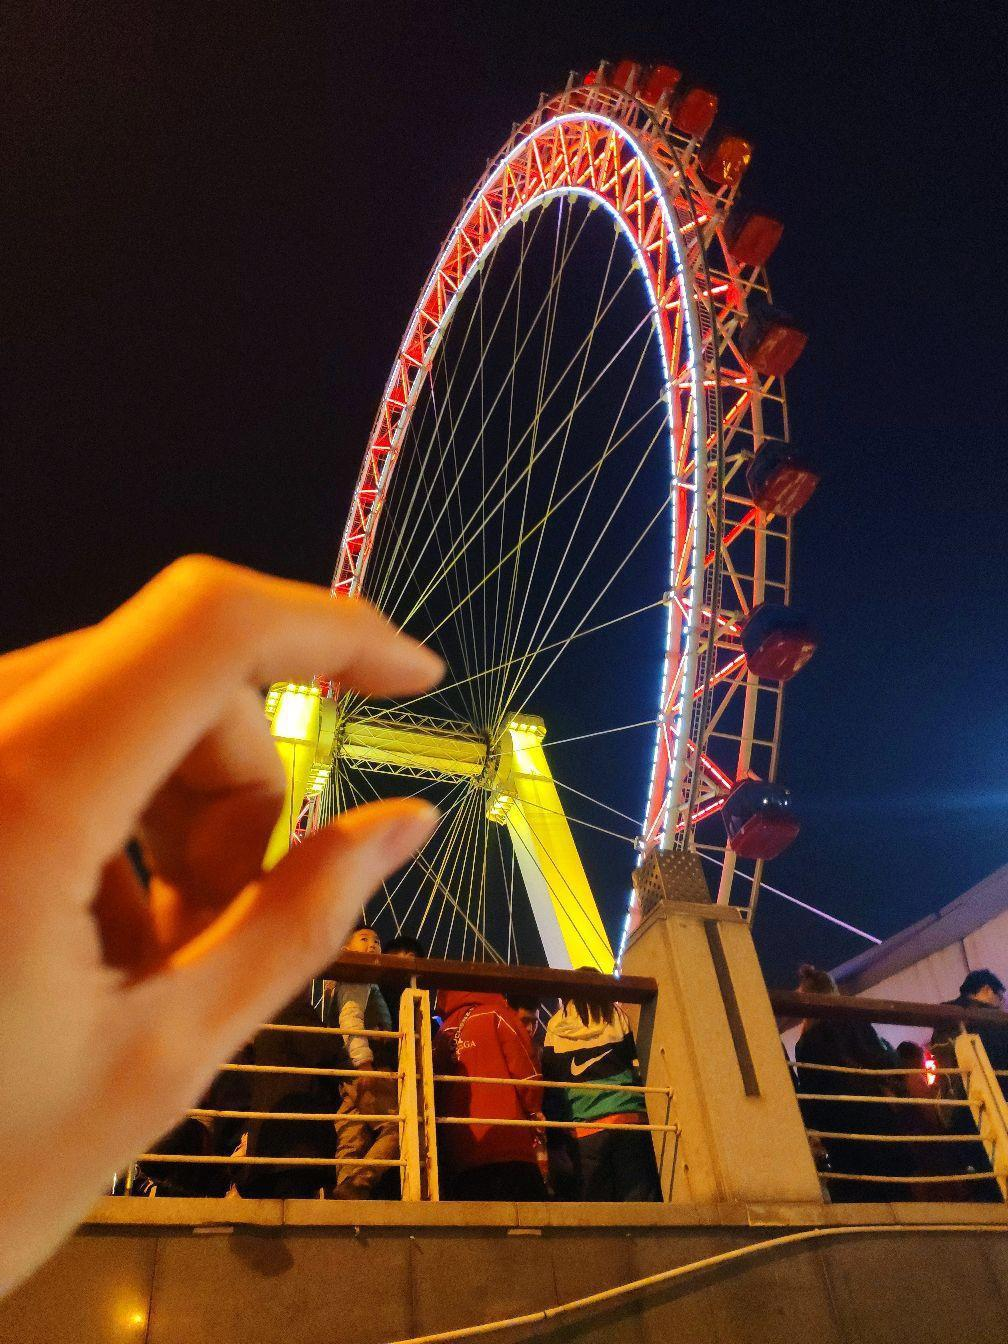
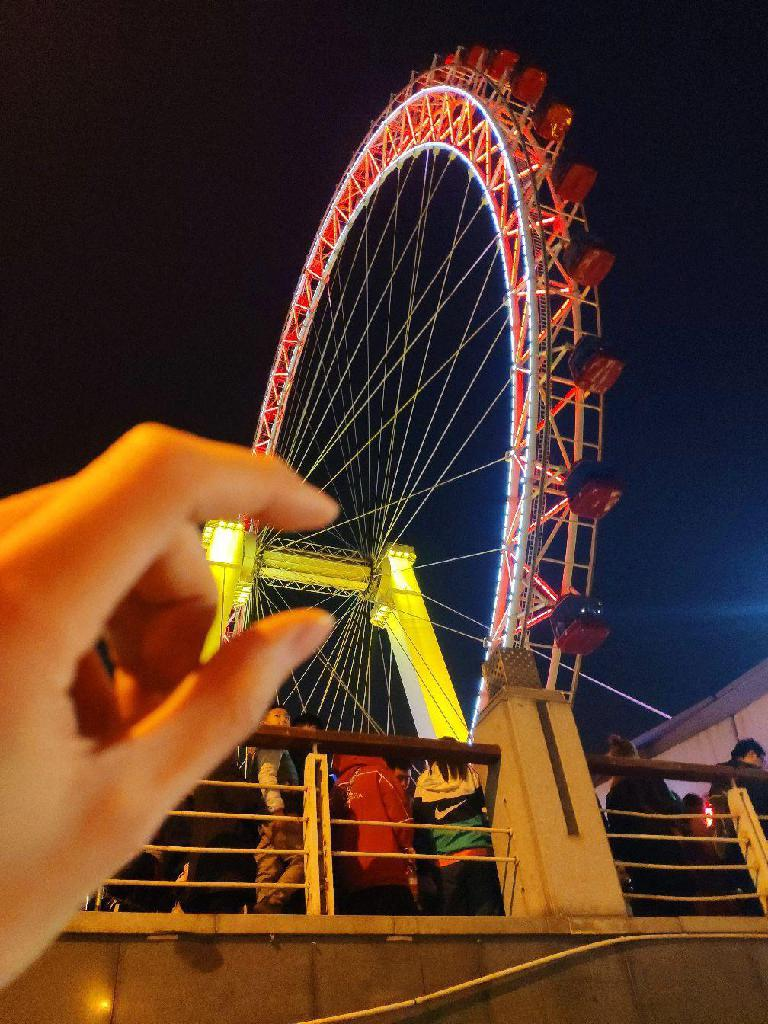
auto commit

diff --git a/utils/desensitize.py b/utils/desensitize.py
@@ -13,7 +13,7 @@ import operator
 from functools import reduce
 from PIL import Image
 
-TARGET_WIDTH = 1024
+TARGET_MAX_SIZE = 1024
 TARGET_DIR = "source/resource/img/"
 PREFIX = "图像处理"
 EXT_MAX_SIZE = 40
@@ -36,17 +36,22 @@ def progressbar(cur, total, prefix="Process", ext=""):
     sys.stdout.flush()
 
 
-def geometric_resize(size_tuple, target_width):
+def geometric_resize(size_tuple, target_max_size):
     """
     等比缩放
     :param size_tuple:
-    :param target_width:
+    :param target_max_size:
     :return:
     """
     source_width, source_height = size_tuple
-    if source_width < target_width:
+    if source_width <= target_max_size and source_height <= target_max_size:
         return size_tuple
-    return target_width, int(target_width / source_width * source_height)
+    target_height = int(target_max_size / source_width * source_height)
+    target_width = int(target_max_size / source_height * source_width)
+    if target_height > target_max_size:
+        return target_width, target_max_size
+    else:
+        return target_max_size, target_height
 
 
 def resize_and_desensitization(img_path):
@@ -55,7 +60,7 @@ def resize_and_desensitization(img_path):
         return "Invalid img."
     source_img = Image.open(img_path)
     source_size = source_img.size
-    target_size = geometric_resize(source_size, TARGET_WIDTH)
+    target_size = geometric_resize(source_size, TARGET_MAX_SIZE)
     if (hasattr(source_img, "_getexif") and source_img._getexif()) or target_size[0] != source_size[0]:
         source_img = source_img.resize(target_size)
         target_img = Image.new(source_img.mode, target_size)
